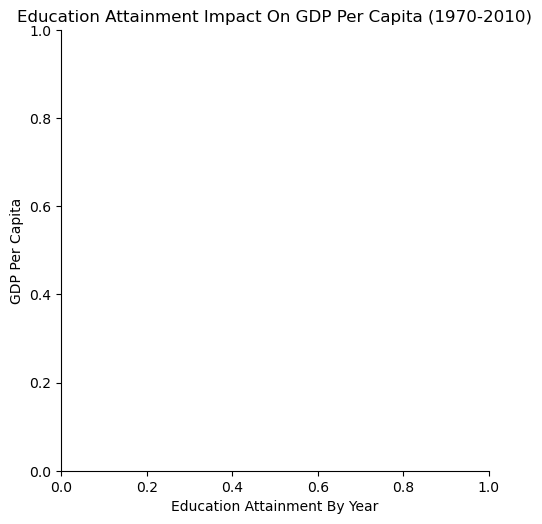
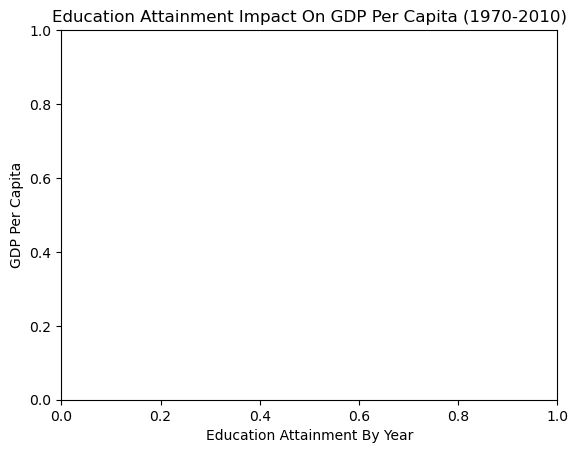
question 2 stuff

Changed region(s): [[0.0, 0.0, 1.0, 0.989]]

diff --git a/question_2.py b/question_2.py
@@ -28,17 +28,17 @@ def new_data(file_name, file_name_2):
     # If there's a missing column, you can add it.
     merged = df2.merge(df, left_on='country',
                        right_on='Country Name', how='inner')
-    year = merged[['country', 'year', 'gdppc', '1970 [YR1970]',
-                   '1980 [YR1980]', '1990 [YR1990]', '2000 [YR2000]',
-                   '2010 [YR2010]']]
-    # print(merged)
+    #year = merged[['country', 'year', 'gdppc', '1970 [YR1970]',
+    #               '1980 [YR1980]', '1990 [YR1990]', '2000 [YR2000]',
+    #               '2010 [YR2010]']]
+    print(merged)
 
     year = merged['1970 [YR1970]'] + df['1980 [YR1980]'] + df['1990 [YR1990]']
     + df['2000 [YR2000]'] + df['2010 [YR2010]']
     # print(year)
 
     # make a scatterplot
-    sns.relplot(x='year', y='gdppc', data=merged)
+    #sns.relplot(x='year', y='gdppc', data=merged)
 
     # plt.legend()
     plt.title("Education Attainment Impact On GDP Per Capita (1970-2010)")
